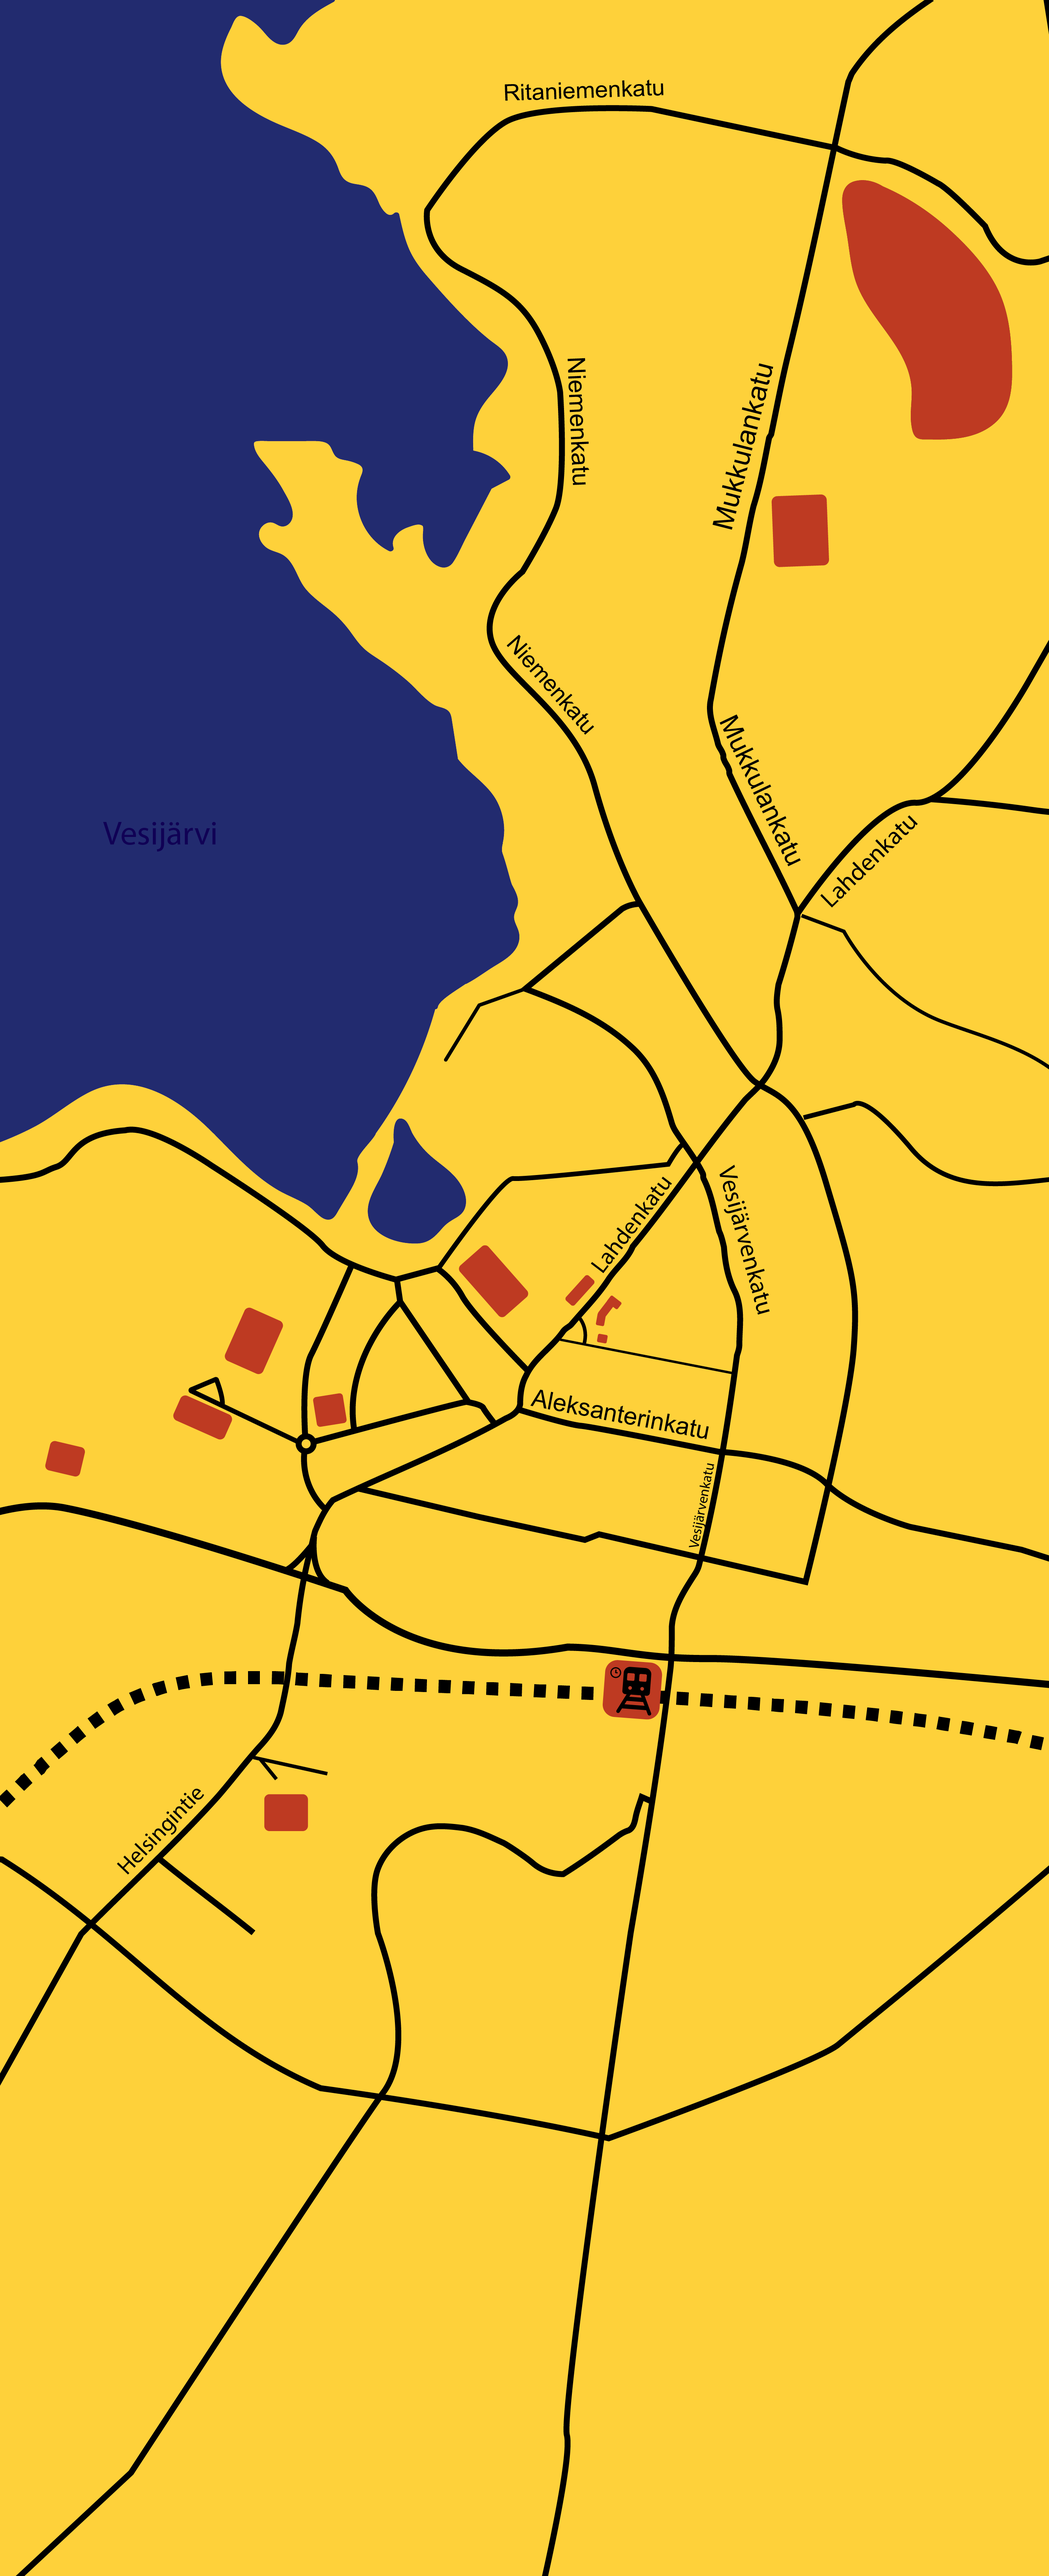
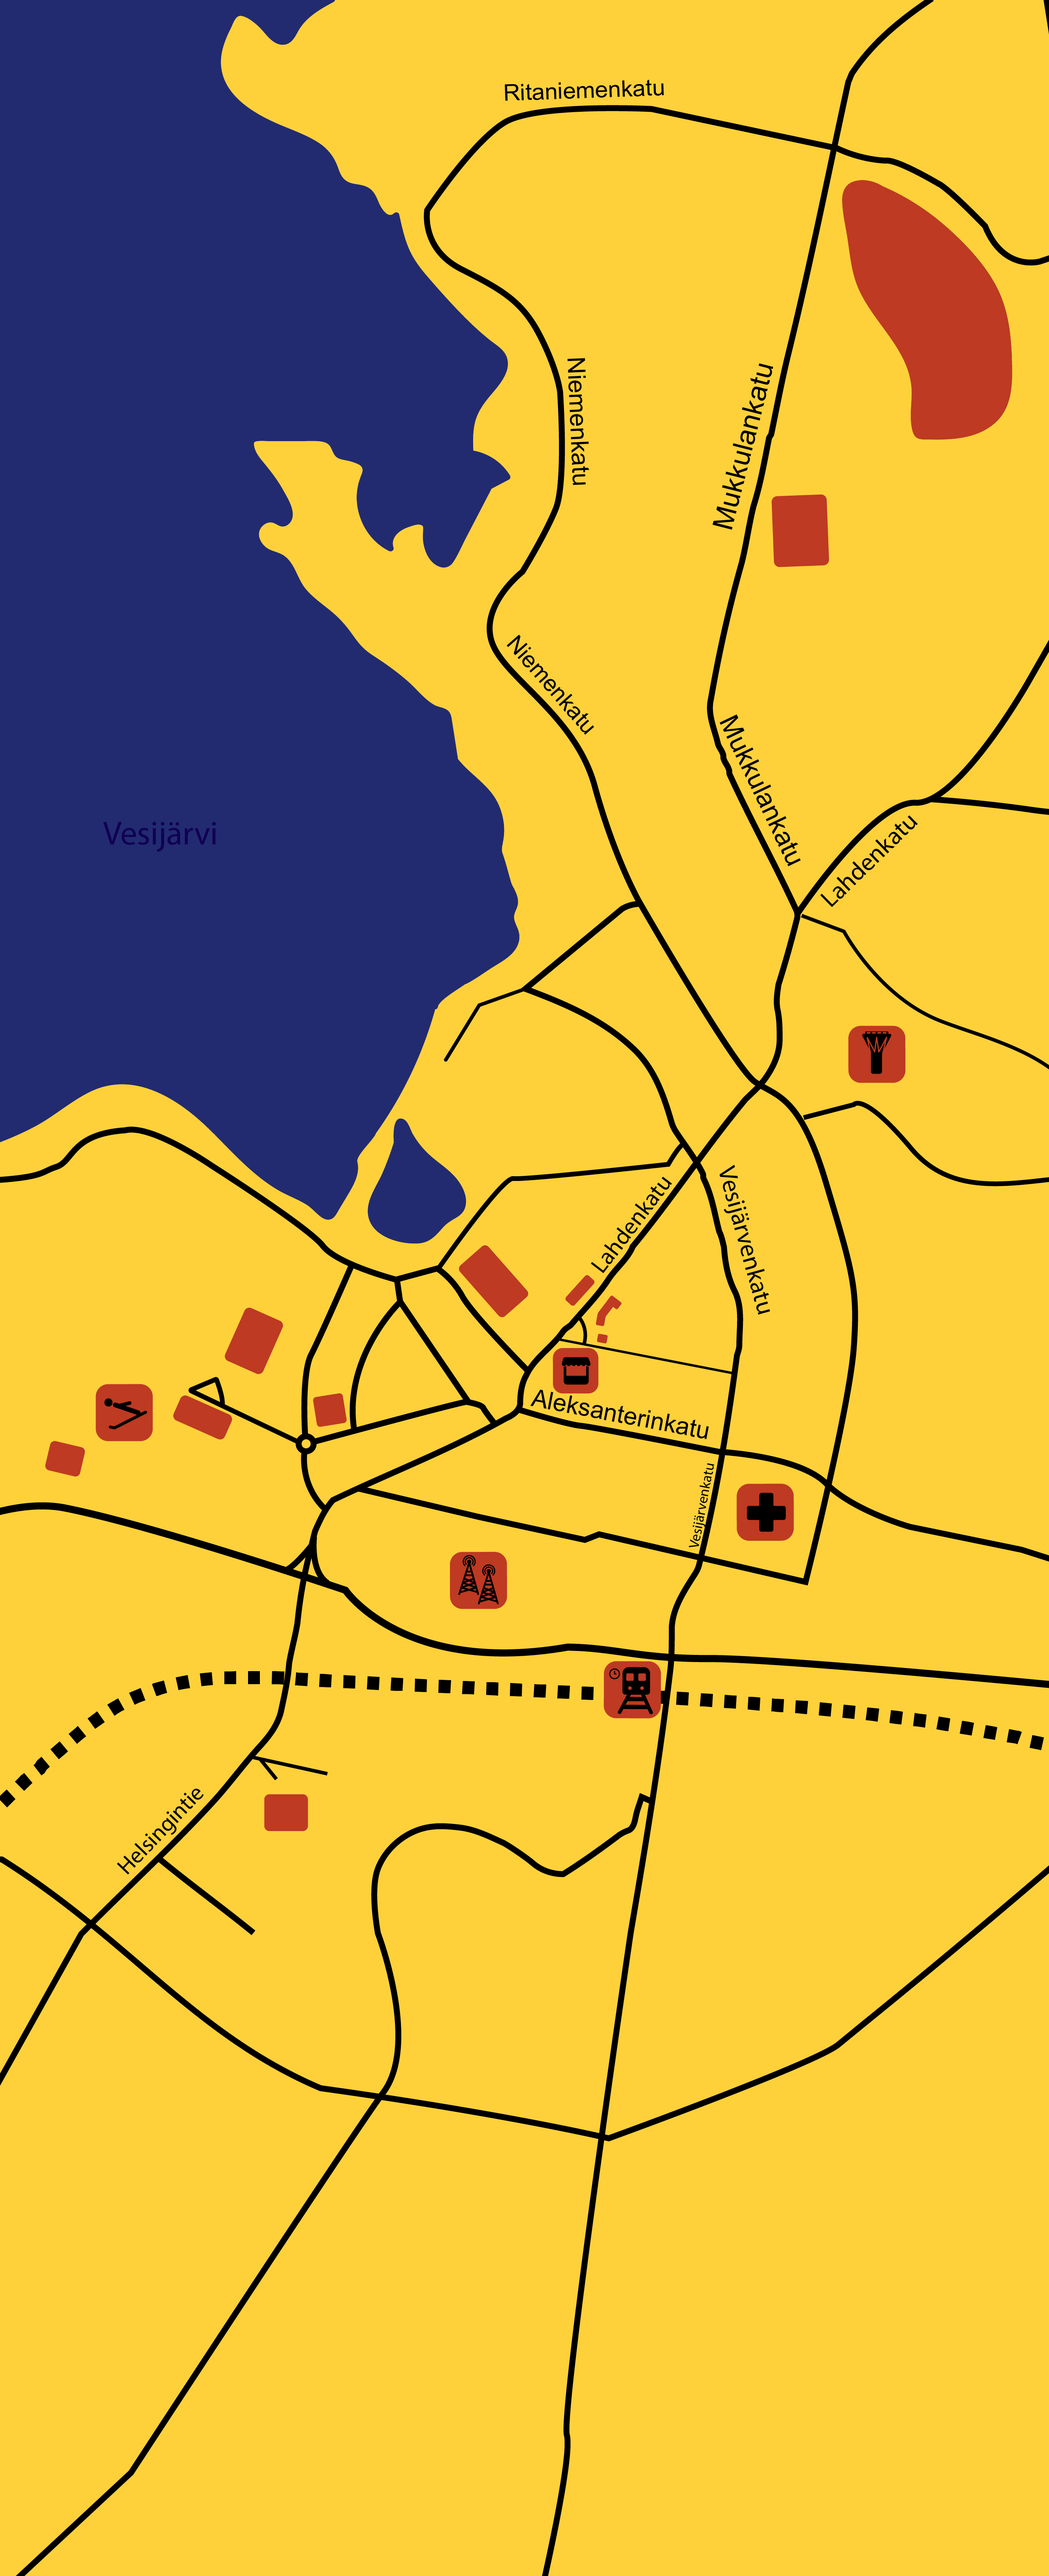
map updates

diff --git a/react-app/SellGamesApp/screens/MapScreen.js b/react-app/SellGamesApp/screens/MapScreen.js
@@ -18,12 +18,37 @@ import sportsInfo from '../data/sportsInfo';
  * @author Aleksi - the card containing list of locations events
  * @param content - data to make the list from
  * @param cancelPress - function to close the card
- * @param address - address for the location
  * @param eventPress - what happens when you click an event
- * @param url - URL address to Google Maps with this location
  * @param offSetTop - how far from top of the screen to set the card
+ * @param markerData - object from mapMarkerData.js
  */
-const MapCard = props => {   
+const MapCard = props => { 
+    let cardContent;
+    
+    if(props.markerData.hasEvents){
+        cardContent = (<ScrollView>
+                        {props.content.map((item) => (
+                            <View key={item.id} style={styles.eventButton}>
+                                <View style={{backgroundColor: Colors.primary.red, borderRadius: 8}}>
+                                    <TouchableOpacity onPress={() => props.eventPress(item)}>
+                                        <View style={{padding:10}}>
+                                            <View style={{paddingBottom:5}}><StTransText style={{color: Colors.primary.yellow, fontSize:20}}>{item.title}</StTransText></View>
+                                            <View style={{paddingBottom:5}}><StTransText style={{color: Colors.primary.yellow, fontSize:18}}>{item.date}</StTransText></View>
+                                            <View style={{flexDirection: 'row'}}>
+                                                <View style={{flex:3}}><StTransText style={{color: Colors.primary.yellow, fontSize:18}}>{item.time}</StTransText></View>
+                                                <View style={{flex:1, justifyContent: "center"}}><StTransText style={{color: Colors.primary.yellow, fontSize:30, textAlign:'right', alignSelf: 'flex-end'}}>+</StTransText></View>
+                                            </View>
+                                        </View>
+                                    </TouchableOpacity>
+                                </View>
+                            </View>
+                        ))}
+                    </ScrollView>);
+    } else {
+        cardContent = (<View style={{backgroundColor: Colors.primary.red, marginHorizontal: 10, borderRadius: 10}}>
+                            <StTransText style={{textAlign: 'center', fontSize: 20, color: Colors.primary.yellow, padding: 5}}>{props.markerData.information}</StTransText>
+                        </View>);
+    } 
     return(
             <View style={{...styles.mapCard, ...{marginTop: (Constants.deviceDimensions.screenHeight * 0.05) + props.offSetTop}}}>
 
@@ -36,32 +61,14 @@ const MapCard = props => {
                     </View>
 
                     <StTransText style={{color: Colors.primary.red, textAlign: "center", fontSize:20}}>
-                        {props.address}
+                        {props.markerData.address}
                     </StTransText>
 
                 </View>
          
-                <ScrollView>
-                    {props.content.map((item) => (
-                        <View key={item.id} style={styles.eventButton}>
-                            <View style={{backgroundColor: Colors.primary.red, borderRadius: 8}}>
-                                <TouchableOpacity onPress={() => props.eventPress(item)}>
-                                    <View style={{padding:10}}>
-                                        <View style={{paddingBottom:5}}><StTransText style={{color: Colors.primary.yellow, fontSize:20}}>{item.title}</StTransText></View>
-                                        <View style={{paddingBottom:5}}><StTransText style={{color: Colors.primary.yellow, fontSize:18}}>{item.date}</StTransText></View>
-                                        <View style={{flexDirection: 'row'}}>
-                                            <View style={{flex:3}}><StTransText style={{color: Colors.primary.yellow, fontSize:18}}>{item.time}</StTransText></View>
-                                            <View style={{flex:1, justifyContent: "center"}}><StTransText style={{color: Colors.primary.yellow, fontSize:30, textAlign:'right', alignSelf: 'flex-end'}}>+</StTransText></View>
-                                        </View>
-                                    </View>
-                                </TouchableOpacity>
-                            </View>
-                        </View>
-                    ))}
-                </ScrollView>
-
+                {cardContent}
                 <View>
-                    <OpenURLButton url={props.url} buttonText={"Open with Google Maps"} textStyles={{color: Colors.primary.yellow, fontSize:20}} buttonStyles={{width:'70%'}}/>         
+                    <OpenURLButton url={props.markerData.url} buttonText={"Open with Google Maps"} textStyles={{color: Colors.primary.yellow, fontSize:20}} buttonStyles={{width:'70%'}}/>
                 </View>
             </View>
     );
@@ -151,14 +158,18 @@ const MapScreen = props => {
      * @param address - address of the location
      * @param url - url to Google Maps
      * @param fetchString - location name to pull data from API with
+     * @param hasEvents - if theres events to fetch
      */
-    async function markerPress(place, url, fetchString){
+    async function markerPress(markerData){
+        let events;
         setyOffset(currentOffset);
         isScrollable(false);
         showProgress(true);
-        let events = await getDataAsync(fetchString);
+        if(markerData.hasEvents){
+            events = await getDataAsync(markerData.fetchString);
+        }
         await Constants.sleep(50);           
-        setCardContent(<MapCard content={events} cancelPress={cancelPress} address={place} eventPress={eventPress} url={url} offSetTop={currentOffset}/>);        
+        setCardContent(<MapCard markerData={markerData} content={events} cancelPress={cancelPress} eventPress={eventPress} offSetTop={currentOffset}/>);        
         showProgress(false); 
     }
 
@@ -254,13 +265,8 @@ const MapScreen = props => {
                 MapMarkerData.markerInfo.map((item) => (
                     <MapMarker 
                         key={item.address}
-                        dimensions={MapMarkerData.dimensions}
+                        dimensions={Constants.mapCalculations.mapMarkerRatio(MapMarkerData.dimensions)}
                         markerData={item}
-                        address={item.address}
-                        url={item.url}
-                        fetchString={item.fetchString}
-                        left={item.left}
-                        top={item.top}
                         markerPress={markerPress}
                     />
                 ))

diff --git a/react-app/SellGamesApp/data/mapMarkerData.js b/react-app/SellGamesApp/data/mapMarkerData.js
@@ -1,41 +1,100 @@
 export default{
     // common data
-    dimensions: 0.2, // multiplier to change icon size
+    dimensions: 1.05, // multiplier to change icon size, this needs to also be calculated with ratio of screen/mapsize to ensure constant location
     markerInfo: [
         {
             address: "Athletics stadium\nSalpausselänkatu 8, 15110 Lahti",
             url: "https://www.google.com/maps/place/Salpaussel%C3%A4nkatu+8,+15110+Lahti/",
             fetchString: "Athletics stadium",
-            left: 330,
-            top: 3220
+            left: 370,
+            top: 3310,
+            hasEvents: true
         },
         {
             address: "Kamppailuareena\nSuurmäenkatu 4, 15900 Lahti",
             url: "https://www.google.com/maps/place/Suurm%C3%A4enkatu+4,+15900+Lahti/",
             fetchString: "Kamppailuareena",
-            left: 30,
-            top: 3320
+            left: 40,
+            top: 3420,
+            hasEvents: true
         },
         {
             address: "Kisapuisto Sports Park\nLahdenkatu, 15140 Lahti",
             url: "https://www.google.com/maps/place/Lahden+kisapuisto/@60.9873748,25.6470154,17z/data=!3m1!4b1!4m5!3m4!1s0x468e28550c22a22b:0xcc05c97e8dc88115!8m2!3d60.9873722!4d25.6492041",
             fetchString: "Kisapuisto Sports Park",
             left: 1100,
-            top: 2850
+            top: 2950,
+            hasEvents: true
         },
         {
             address: "Suurhalli Sports Hall\nSalpausselänkatu 7, 15110 Lahti",
             url: "https://www.google.com/maps/place/Salpaussel%C3%A4nkatu+7,+15110+Lahti/",
             fetchString: "Suurhalli Sports Hall",
-            left: 520,
-            top: 3000
+            left: 550,
+            top: 3100,
+            hasEvents: true
         },
         {
             address: "Mukkula DiscGolfPark\nTuhtokatu 2, 15240 Lahti",
             url: "https://www.google.com/maps/place/Tuhtokatu+2,+15240+Lahti/",
             fetchString: "Mukkula DiscGolfPark",
-            left: 2200,
-            top: 400
+            left: 2300,
+            top: 600,
+            hasEvents: true
+        },
+        {
+            address: "Lahti City Hospital\nHarjukatu 48, 15100 Lahti",
+            information: "Go here if you're sick.",
+            url: "https://www.google.com/maps/place/Harjukatu+48,+15100+Lahti/",
+            fetchString: "",
+            left: 1870,
+            top: 3520,
+            hasEvents: false
+        },
+        {
+            address: "MukkulaCampus\nMukkulankatu 19, 15210 Lahti",
+            information: "No events added to API yet.",
+            url: "https://www.google.com/maps/place/Mukkulankatu+19,+15210+Lahti/",
+            fetchString: "",
+            left: 1930,
+            top: 1050,
+            hasEvents: false
+        },
+        {
+            address: "Lahti Matkakeskus, 15100 Lahti",
+            information: "Central train and bus station",
+            url: "https://www.google.com/maps/place/Lahti,+Matkakeskus/@60.9772636,25.6564503,17z/data=!3m1!4b1!4m5!3m4!1s0x468e28502f2e9f93:0x35f19dce94f9e293!8m2!3d60.977261!4d25.658639",
+            fetchString: "",
+            left: 1540,
+            top: 3970,
+            hasEvents: false
+        },
+        {
+            address: "Radiomäki, 15110 Lahti",
+            information: "Historical landmark in Lahti, location of the Radio and TV museum.",
+            url: "https://www.google.com/maps/place/Radiom%C3%A4ki/@60.9795521,25.6423543,17z/data=!3m1!4b1!4m5!3m4!1s0x468e29b831dd6677:0x19d91b04f7f86d70!8m2!3d60.9795495!4d25.644543",
+            fetchString: "",
+            left: 1150,
+            top: 3690,
+            hasEvents: false
+        },
+        {
+            address: "Mustakallio Watertower\nJuustilankatu 13, 15200 Lahti",
+            information: "Historical landmark in Lahti, can be rented for a price.",
+            url: "https://www.google.com/maps/place/Mustankallion+vesitorni/@60.9924653,25.6744696,16z/data=!4m5!3m4!1s0x468e29294a912ced:0xe8499176dd36e159!8m2!3d60.9923353!4d25.6715835",
+            fetchString: "",
+            left: 2180,
+            top: 2360,
+            hasEvents: false
+        },
+        {
+            address: "Lahti Central Plaza\nVapaudenkatu 7, 15110 Lahti",
+            information: "Central market place in Lahti, opening ceremony will be held here.",
+            url: "https://www.google.com/maps/place/Lahden+kauppatori/@60.9834908,25.6540214,17z/data=!3m1!4b1!4m5!3m4!1s0x468e285397ca32bf:0xd9180acaa46e1193!8m2!3d60.9834908!4d25.6562101",
+            fetchString: "",
+            left: 1320,
+            top: 3200,
+            hasEvents: false
         },
     ]
 }

diff --git a/react-app/SellGamesApp/components/MapMarker.js b/react-app/SellGamesApp/components/MapMarker.js
@@ -6,18 +6,13 @@ const Constants = new CommonConstants();
 /**
  * 
  * @param markerPress - function to open location information
- * @param top - position from top of screen
- * @param left - position from left of screen
+ * @param markerData - object to fetch the data from, look mapMarkerData.js
  * @param dimensions - multiplier for the markers size
- * @param fetchString - string to fetch data from venues
- * @param url - url of the location on Google Maps
- * @param place - title for the information box
  */
 const MapMarker = props => {
-  
   return (
-    <View key={props.address} style={{position: 'absolute', top: Constants.mapCalculations.mapMarkerPos(props.top), left: Constants.mapCalculations.mapMarkerPos(props.left)}}>
-      <TouchableOpacity onPress={() => props.markerPress(props.address, props.url, props.fetchString)}>
+    <View key={props.markerData.address} style={{position: 'absolute', top: Constants.mapCalculations.mapMarkerRatio(props.markerData.top), left: Constants.mapCalculations.mapMarkerRatio(props.markerData.left)}}>
+      <TouchableOpacity onPress={() => props.markerPress(props.markerData)}>
         <Image
           style={{width:(styles.marker.width*props.dimensions),height:(styles.marker.height*props.dimensions)}}
           source={require('../assets/icons/MapMarker.png')}

diff --git a/react-app/SellGamesApp/constants/commonConstants.js b/react-app/SellGamesApp/constants/commonConstants.js
@@ -10,9 +10,9 @@ class CommonConstants {
         this.mapCalculations = {
             mapWidth: 2656,
             mapHeight: 6522,
-            /** @param px - how many pixels the location is from the left side or top of the image, the ratio is same for both */
-            mapMarkerPos: (px) => {
-                return px * (this.deviceDimensions.screenWidth / this.mapCalculations.mapWidth);
+            /** @param unit - the unit we need the calculation for (pixels from top or left of screen forexample) */
+            mapMarkerRatio: (unit) => {
+                return unit * (this.deviceDimensions.screenWidth / this.mapCalculations.mapWidth);
             }
         };
         this.userScheduleKey = "USER_SCHEDULES";
